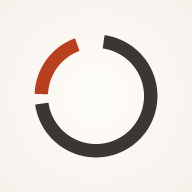
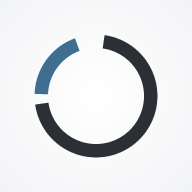
Cooler, neutral colour palette

Changed region(s): [[0.1562, 0.1875, 0.4375, 0.5]]

diff --git a/css/app.css b/css/app.css
@@ -1,38 +1,38 @@
 /* My Budget – colours live here only. Light by default; dark follows the phone's setting. */
 :root {
-  --bg: #F4F0EA;
-  --surface: #FFFDF9;          /* other cards */
-  --sheet: #F8F4EE;
-  --accent: #3A3631;           /* warm charcoal: main card, + button, active tab */
-  --accent-2: #4F4A44;         /* status pill and progress track on the main card */
-  --accent-soft: rgba(58, 54, 49, 0.08);
+  --bg: #F2F3F5;               /* soft neutral grey */
+  --surface: #FFFFFF;          /* other cards */
+  --sheet: #F7F8FA;
+  --accent: #2C3035;           /* neutral charcoal: main card, + button, active tab */
+  --accent-2: #42474D;         /* status pill and progress track on the main card */
+  --accent-soft: rgba(44, 48, 53, 0.08);
   --on-accent: #FFFFFF;
-  --on-accent-label: #D9D2C8;
-  --hero-fill: #F4EDE2;        /* progress fill on the main card */
-  --strong: #3A3631;           /* focus rings, links, dots, progress fills on light cards */
-  --in: #3F5139;               /* money in text */
-  --out: #94533A;              /* money out text */
-  --in-bg: #E3EADD;
-  --out-bg: #F3E1D3;
-  --soft: #EFE9E0;             /* quiet inner boxes: advice line, goal rows */
-  --settings-bg: #E8E1D6;
-  --tab-idle: #8A847C;
+  --on-accent-label: #C5CAD0;
+  --hero-fill: #EEF1F4;        /* progress fill on the main card */
+  --strong: #2C3035;           /* focus rings, links, dots, progress fills on light cards */
+  --in: #2F5A47;               /* money in text */
+  --out: #8E4A4A;              /* money out text */
+  --in-bg: #E1EDE7;
+  --out-bg: #F1E4E4;
+  --soft: #ECEEF1;             /* quiet inner boxes: advice line, goal rows */
+  --settings-bg: #E3E6EA;
+  --tab-idle: #868C93;
   --sage: var(--in-bg);
   --peach: var(--out-bg);
   --lav: var(--soft);
-  --text: #23211E;
-  --label: #5E5A55;
-  --faint: rgba(35, 33, 30, 0.45);
-  --line: rgba(35, 33, 30, 0.08);
-  --line-strong: rgba(35, 33, 30, 0.2);
-  --field: rgba(35, 33, 30, 0.05);
-  --track: rgba(35, 33, 30, 0.08);
-  --shadow: 0 6px 22px rgba(58, 54, 49, 0.06);
-  --shadow-lift: 0 14px 36px rgba(58, 54, 49, 0.16);
-  --scrim: rgba(27, 25, 23, 0.36);
-  /* spending category colours: deep, warm, saturated */
-  --c1: #B8401F; --c2: #D4900F; --c3: #4E6B2A; --c4: #7A2E2A; --c5: #8A5A2B;
-  --c6: #A8652A; --c7: #5F6B3A; --c8: #9C3B4A; --c9: #6E5F4E;
+  --text: #1D2125;
+  --label: #5A6068;
+  --faint: rgba(29, 33, 37, 0.45);
+  --line: rgba(29, 33, 37, 0.08);
+  --line-strong: rgba(29, 33, 37, 0.2);
+  --field: rgba(29, 33, 37, 0.05);
+  --track: rgba(29, 33, 37, 0.08);
+  --shadow: 0 6px 22px rgba(29, 33, 37, 0.06);
+  --shadow-lift: 0 14px 36px rgba(29, 33, 37, 0.16);
+  --scrim: rgba(18, 20, 23, 0.36);
+  /* spending category colours: calm and mostly cool */
+  --c1: #3F6E91; --c2: #4E8C7D; --c3: #7466A0; --c4: #A85A55; --c5: #5E8150;
+  --c6: #6C93B8; --c7: #956A88; --c8: #4A5E70; --c9: #8A9097;
 
   --font: ui-rounded, "SF Pro Rounded", "Nunito", "Varela Round", system-ui, -apple-system, "Segoe UI", sans-serif;
   --r-card: 26px;
@@ -46,35 +46,35 @@
 
 @media (prefers-color-scheme: dark) {
   :root {
-    --bg: #1B1917;
-    --surface: #25221F;
-    --sheet: #221F1C;
-    --accent: #45403A;
-    --accent-2: #5A544D;
-    --accent-soft: rgba(242, 238, 232, 0.08);
+    --bg: #15171A;
+    --surface: #1F2226;
+    --sheet: #1B1E21;
+    --accent: #32373D;
+    --accent-2: #474D54;
+    --accent-soft: rgba(236, 239, 242, 0.08);
     --on-accent: #FFFFFF;
-    --on-accent-label: #D9D2C8;
-    --hero-fill: #EDE5D8;
-    --strong: #E8E1D6;
-    --in: #AFCBA3;
-    --out: #EBA88B;
-    --in-bg: #29342A;
-    --out-bg: #3D2A23;
-    --soft: #2E2A26;
-    --settings-bg: #2E2A26;
-    --tab-idle: #8A847C;
-    --text: #F2EEE8;
-    --label: #A8A39B;
-    --faint: rgba(242, 238, 232, 0.45);
-    --line: rgba(242, 238, 232, 0.08);
-    --line-strong: rgba(242, 238, 232, 0.2);
-    --field: rgba(242, 238, 232, 0.06);
-    --track: rgba(242, 238, 232, 0.1);
+    --on-accent-label: #C5CAD0;
+    --hero-fill: #E6EAEE;
+    --strong: #DDE2E7;
+    --in: #A3CDB8;
+    --out: #E3A7A4;
+    --in-bg: #213029;
+    --out-bg: #352628;
+    --soft: #282C31;
+    --settings-bg: #282C31;
+    --tab-idle: #80878F;
+    --text: #ECEFF2;
+    --label: #9EA5AD;
+    --faint: rgba(236, 239, 242, 0.45);
+    --line: rgba(236, 239, 242, 0.08);
+    --line-strong: rgba(236, 239, 242, 0.2);
+    --field: rgba(236, 239, 242, 0.06);
+    --track: rgba(236, 239, 242, 0.1);
     --shadow: 0 6px 22px rgba(0, 0, 0, 0.25);
     --shadow-lift: 0 14px 36px rgba(0, 0, 0, 0.5);
     --scrim: rgba(0, 0, 0, 0.5);
-    --c1: #D45A35; --c2: #E5A42B; --c3: #7A9A4E; --c4: #A9483F; --c5: #B07A45;
-    --c6: #D1823F; --c7: #8E9A5A; --c8: #C25A68; --c9: #9C8B76;
+    --c1: #6E9CC2; --c2: #6FB3A2; --c3: #A396CC; --c4: #D2837D; --c5: #8BB07A;
+    --c6: #94B9DB; --c7: #C495B6; --c8: #7F96AB; --c9: #A9AFB6;
     color-scheme: dark;
   }
 }
@@ -495,7 +495,7 @@ input[type="date"].input, input[type="time"].input { min-height: 52px; }
 .card { margin-bottom: 16px; padding: 22px; }
 .tab { color: var(--tab-idle); }
 .tab[aria-current="page"] { color: var(--text); background: var(--soft); }
-.fab { box-shadow: 0 10px 26px rgba(27, 25, 23, 0.28); }
+.fab { box-shadow: 0 10px 26px rgba(18, 20, 23, 0.28); }
 @media (prefers-color-scheme: dark) { .fab { border: 1px solid var(--line-strong); } }
 button:focus-visible, input:focus-visible, select:focus-visible, textarea:focus-visible, summary:focus-visible { outline-color: var(--strong); }
 .input:focus { border-color: var(--strong); }
@@ -514,14 +514,14 @@ button:focus-visible, input:focus-visible, select:focus-visible, textarea:focus-
 .set-section, .set-section:nth-of-type(1), .set-section:nth-of-type(2), .set-section:nth-of-type(3) { background: var(--surface); box-shadow: var(--shadow); }
 .set-body .rows, .set-body .btn.ghost { background: var(--soft); }
 .chip[aria-pressed="true"], .switch input:checked + .track { background: var(--accent); }
-@media (prefers-color-scheme: dark) { .chip[aria-pressed="true"], .switch input:checked + .track { background: #6A635B; } }
+@media (prefers-color-scheme: dark) { .chip[aria-pressed="true"], .switch input:checked + .track { background: #5B636C; } }
 .empty .em-ic { background: var(--soft); color: var(--label); }
 .snapshot .totals-mini .row, .snapshot .totals-mini .row:first-child, .snapshot .totals-mini .row:last-child { background: var(--soft); }
 .totals-mini .row:first-child { background: var(--in-bg); }
 .totals-mini .row:last-child { background: var(--out-bg); }
 
 /* Main card: big number, status pill, budget progress inside */
-.hero { background: var(--accent); color: var(--on-accent); box-shadow: 0 14px 34px rgba(27, 25, 23, 0.22); padding: 26px 22px 22px; }
+.hero { background: var(--accent); color: var(--on-accent); box-shadow: 0 14px 34px rgba(18, 20, 23, 0.22); padding: 26px 22px 22px; }
 .hero .label { color: var(--on-accent-label); opacity: 1; }
 .hero .big { margin: 8px 0 14px; }
 .hero .pill { display: inline-flex; align-items: center; gap: 8px; padding: 8px 14px; border-radius: 999px; background: var(--accent-2); font-size: 14.5px; font-weight: 700; }
@@ -529,7 +529,7 @@ button:focus-visible, input:focus-visible, select:focus-visible, textarea:focus-
 .hero .hero-bar { height: 10px; border-radius: 999px; background: var(--accent-2); overflow: hidden; margin: 20px 0 8px; }
 .hero .hero-bar i { display: block; height: 100%; border-radius: 999px; background: var(--hero-fill); }
 .hero .hero-bar.fill i { transition: width .9s var(--ease); }
-.hero .hero-bar i.over { background: #EBA88B; }
+.hero .hero-bar i.over { background: #E3A7A4; }
 .hero .used { display: flex; flex-direction: column; align-items: flex-start; gap: 2px; width: 100%; font-size: 14.5px; color: var(--on-accent-label); text-align: left; }
 .hero .used > span:last-child { font-size: 13px; }
 .hero .used b { color: var(--on-accent); font-weight: 800; }

diff --git a/index.html b/index.html
@@ -8,8 +8,8 @@
   <meta name="referrer" content="no-referrer">
   <title>My Budget</title>
   <meta name="description" content="A calm personal budget. Your data stays on your device.">
-  <meta name="theme-color" content="#F4F0EA" media="(prefers-color-scheme: light)">
-  <meta name="theme-color" content="#1B1917" media="(prefers-color-scheme: dark)">
+  <meta name="theme-color" content="#F2F3F5" media="(prefers-color-scheme: light)">
+  <meta name="theme-color" content="#15171A" media="(prefers-color-scheme: dark)">
   <meta name="color-scheme" content="light dark">
   <meta name="apple-mobile-web-app-capable" content="yes">
   <meta name="mobile-web-app-capable" content="yes">

diff --git a/sw.js b/sw.js
@@ -1,7 +1,7 @@
 // Lets the app open with no internet. Only caches the app's own files – never your data.
 // Network first, so updates published to GitHub show up the next time you open the app online.
 
-const CACHE = 'my-budget-v5';
+const CACHE = 'my-budget-v6';
 const FILES = [
   './',
   './index.html',
